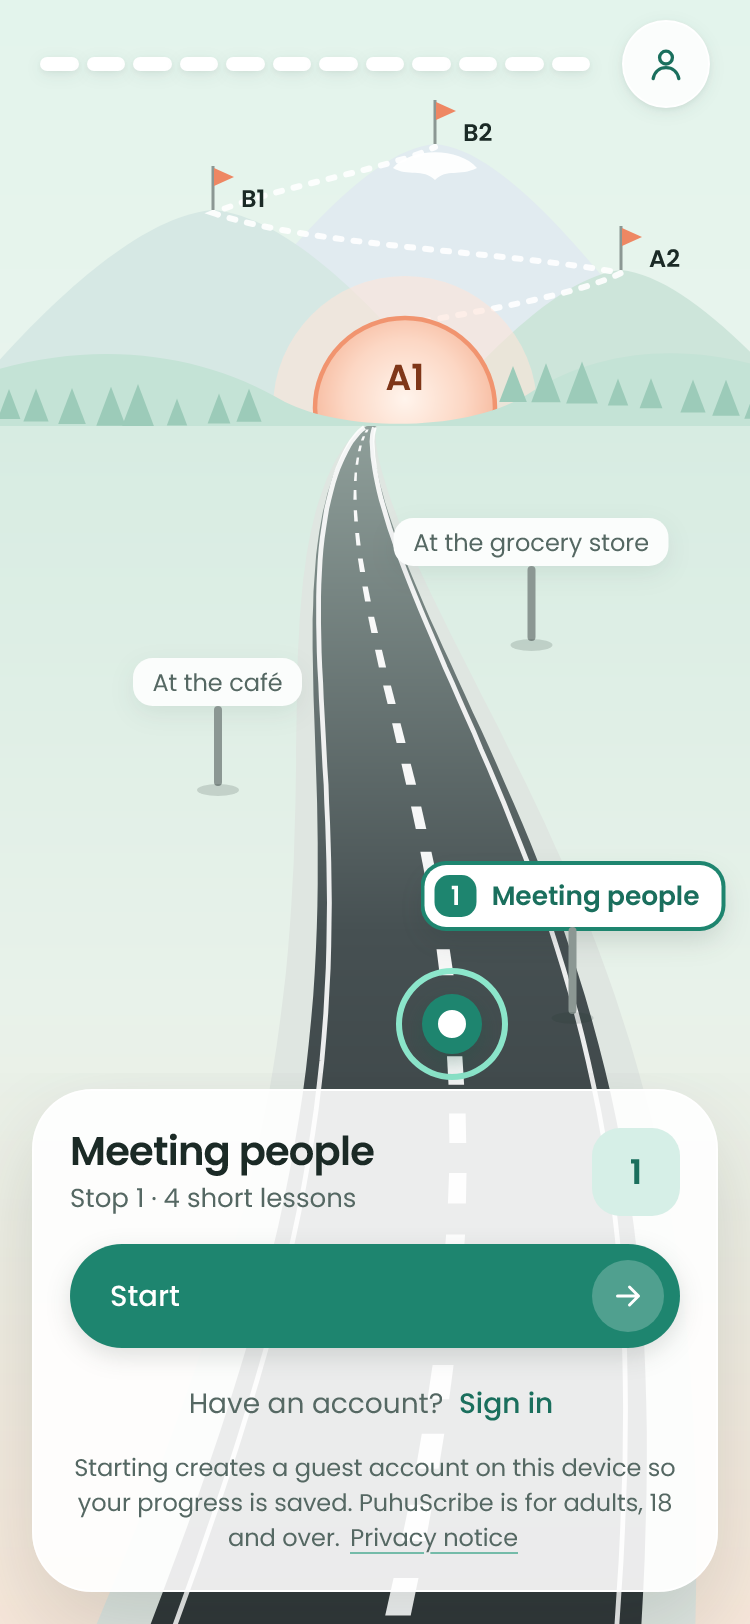
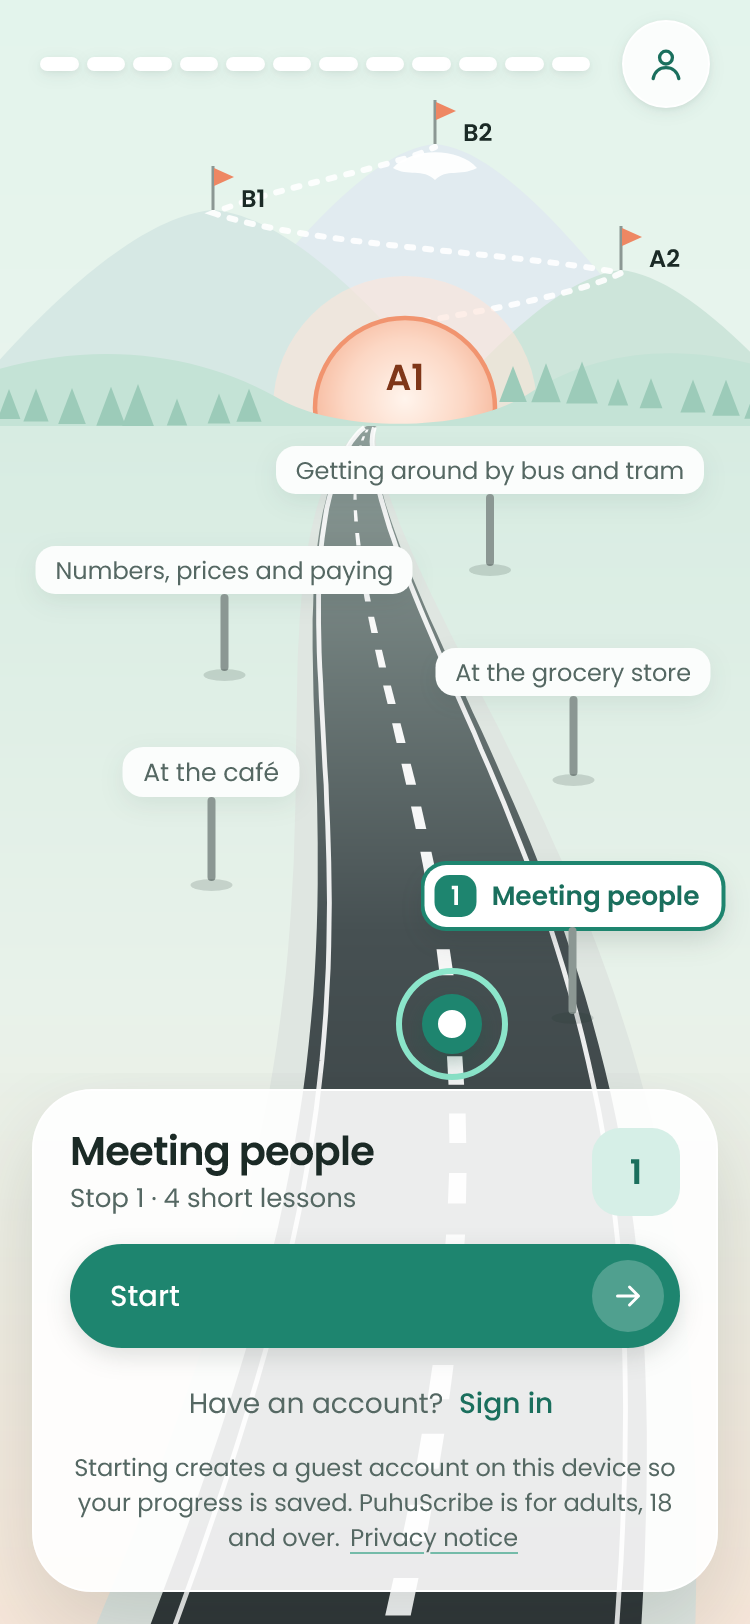
redesign round 6: the finish screen keeps its cross and play controls (jobs 8 and 18), signs move up only as far as the card needs, tests follow the drawn look

Changed region(s): [[0.0307, 0.2771, 0.9507, 0.5542]]

diff --git a/e2e/redesign-lesson.spec.ts b/e2e/redesign-lesson.spec.ts
@@ -245,21 +245,19 @@ test.describe('the lesson frame and the leave sheet', () => {
     await page.waitForURL((url) => url.pathname === '/')
   })
 
-  // Round 6 (owner, item 26): the finish screen has no top bar, as drawn: no cross and no sheet (nothing is
-  // lost there; Done goes back to the road). The full bar stays for screen readers.
-  test('[redesign 22] [redesign 33] the finish screen has no top bar and no sheet; Done goes back to the road', async ({
+  // Round 6 (owner, item 26): no bar and no "Lesson finished" on the finish screen, as drawn (the bar stays
+  // for screen readers). The cross stays as a link that leaves at once (job 18, statement 12), so no sheet.
+  test('[redesign 22] [redesign 33] the finish screen has no drawn bar and no sheet: its cross leaves at once', async ({
     page,
   }) => {
     await open(page, { step: 'say' })
     await expect(page.getByRole('heading', { level: 1, name: 'Now you can say this.' })).toBeVisible()
-    await expect(page.getByRole('link', { name: 'Leave session' })).toHaveCount(0)
+    const cross = page.getByRole('link', { name: 'Leave session' })
+    await expect(cross).toHaveAttribute('href', '/')
     await expect(page.getByRole('button', { name: 'Leave session' })).toHaveCount(0)
     const bar = page.getByRole('progressbar', { name: 'Session finished' })
     await expect(bar).toBeAttached()
-    const shown = await page.locator('header', { has: bar }).boundingBox()
-    expect(shown?.height ?? 0).toBeLessThan(3)
-    await page.getByRole('button', { name: 'Done', exact: true }).click()
-    await page.waitForURL((url) => url.pathname === '/')
+    expect(await bar.evaluate((el) => (el as unknown as { clientWidth: number }).clientWidth)).toBeLessThan(3)
   })
 })
 
@@ -1009,14 +1007,16 @@ test.describe('round 6, as drawn', () => {
     expect((await page.getByRole('status').boundingBox())?.width ?? 0).toBeLessThan(3)
   })
 
-  test('[redesign 33] the finish screen: the spoken line alone with its English, five chips then "+6", and the saved line small under Done', async ({
+  test('[redesign 33] the finish screen: the spoken line centred with its English, five chips then "+6", and the saved line small under Done', async ({
     page,
   }) => {
     await open(page, { step: 'say', newWords: 11, me: { kind: 'guest' } })
     await expect(page.getByRole('heading', { level: 1, name: 'Now you can say this.' })).toBeVisible()
+    // No speaker; the written line and both play controls stay small (job 8, statement 14).
     const sentence = page.locator('[data-line-id]')
-    await expect(sentence.getByRole('button')).toHaveCount(0)
-    await expect(sentence.locator('p')).toHaveCount(2)
+    await expect(sentence.getByRole('button')).toHaveCount(2)
+    await expect(sentence.locator('p')).toHaveCount(3)
+    expect(await styleOf(sentence, 'textAlign')).toBe('center')
     await expect(page.getByRole('heading', { level: 2, name: '11 new words' })).toBeVisible()
     const chips = page.getByRole('list').filter({ has: page.getByRole('button', { name: 'sana0' }) })
     await expect(chips.getByRole('button')).toHaveText(['sana0', 'sana1', 'sana2', 'sana3', 'sana4', '+6'])

diff --git a/src/screens/FinishScreen.tsx b/src/screens/FinishScreen.tsx
@@ -14,6 +14,8 @@ import { accountKindOf, carriesSaveNote } from './save-note.ts'
 import { SAVED_ON_THIS_DEVICE } from './save-note-copy.ts'
 import { SaveNote } from './SaveNote.tsx'
 import { NOT_SAVED } from './step-screen.ts'
+import { PlayControl } from '../components/PlayControl.tsx'
+import { LINE_AUDIO } from './LineCard.tsx'
 import styles from './Screens.module.css'
 
 // The finish screen (factory/jobs/8-first-session/spec.md, "Done when" 14 and
@@ -57,6 +59,11 @@ async function save(sessionId: string): Promise<SaveResult> {
 interface FinishScreenProps {
   session: ReadySession
   steps: readonly LoopStep[]
+}
+
+/** A line's words as plain text, with their punctuation. */
+function plain(words: readonly { text: string; before?: string; after?: string }[]): string {
+  return words.map((word) => `${word.before ?? ''}${word.text}${word.after ?? ''}`).join(' ')
 }
 
 export function FinishScreen({ session, steps }: FinishScreenProps) {
@@ -161,19 +168,22 @@ export function FinishScreen({ session, steps }: FinishScreenProps) {
           </svg>
         </div>
         <h1 className={styles.finishTitle}>{NOW_YOU_CAN}</h1>
-        {/* As drawn (round 6): only the spoken line, centred and bold, with the English under it. */}
+        {/* As drawn (round 6): the spoken line centred and bold, with the English under it and no speaker.
+            Job 8 (statement 14) keeps the written line and both play controls, so they sit small with it. */}
         {line && (
           <div className={styles.finishLine} data-line-id={line.id}>
-            <p className={styles.finishSpoken} lang="fi">
-              {line.spoken.map((word, index) => (
-                <span key={index}>
-                  {index > 0 ? ' ' : ''}
-                  {word.before}
-                  {word.text}
-                  {word.after}
-                </span>
-              ))}
-            </p>
+            <div className={styles.finishRow}>
+              <p className={styles.finishSpoken} lang="fi">
+                {plain(line.spoken)}
+              </p>
+              <PlayControl src={line.spokenAudio} what={LINE_AUDIO.spoken} size="small" />
+            </div>
+            <div className={styles.finishRow}>
+              <p className={styles.finishWritten} lang="fi">
+                {plain(line.written)}
+              </p>
+              <PlayControl src={line.writtenAudio} what={LINE_AUDIO.written} size="small" tone="written" />
+            </div>
             <p className={styles.finishGloss}>{line.gloss}</p>
           </div>
         )}

diff --git a/src/components/SessionFrame.tsx b/src/components/SessionFrame.tsx
@@ -74,10 +74,15 @@ export function SessionFrame({
       data-dim={dim ? 'on' : undefined}
     >
       <Landscape />
-      {/* The finish screen has no top bar, as drawn (round 6): no cross (Done goes back to the road) and the
-          full bar stays for screen readers only. */}
-      <header className={finished ? styles.topBarHidden : styles.topBar}>
-        {finished ? null : (
+      {/* The finish screen has no bar and no "Lesson finished", as drawn (round 6); both stay for screen
+          readers. Its cross stays, a link that leaves at once, because job 18 (statement 12) keeps "Leave
+          session" working on this screen. */}
+      <header className={styles.topBar}>
+        {finished ? (
+          <a className={styles.leave} href={leaveHref} aria-label="Leave session">
+            <Cross />
+          </a>
+        ) : (
           <button
             ref={cross}
             type="button"
@@ -92,7 +97,7 @@ export function SessionFrame({
           </button>
         )}
         <div
-          className={styles.bar}
+          className={finished ? styles.topBarHidden : styles.bar}
           role="progressbar"
           aria-label={name}
           aria-valuemin={0}
@@ -101,7 +106,7 @@ export function SessionFrame({
         >
           <span className={styles.fill} style={{ width: `${String(Math.round(share * 1000) / 10)}%` }} />
         </div>
-        <StepName className={hideStepName ? styles.stepHidden : styles.step}>
+        <StepName className={hideStepName || finished ? styles.stepHidden : styles.step}>
           {finished ? 'Lesson finished' : <StepLabel step={step} />}
         </StepName>
       </header>

diff --git a/src/components/landscape-geometry.ts b/src/components/landscape-geometry.ts
@@ -178,12 +178,14 @@ export function signSpots(
   const step = Math.max(SIGN_STEP, minGap)
   for (let i = drawn.length - 2; i >= 0; i--)
     drawn[i] = Math.max(drawn[i] ?? top, (drawn[i + 1] ?? top) + step)
-  const nearest = drawn[0] ?? bottom
-  const squeeze = nearest > bottom ? (bottom - top) / Math.max(1, nearest - top) : 1
-  const ys = drawn.map((y) => top + (y - top) * squeeze)
-  // Squeezed too close for tall boards (a short phone with large text): the gap wins over the sun, and the
-  // road screen then shows fewer signs, because no board may cover the sun or another board.
-  for (let i = 1; i < ys.length; i++) ys[i] = Math.min(ys[i] ?? top, (ys[i - 1] ?? top) - step)
+  // From the nearest up: no lower than the card allows, and a step above the one in front, so the
+  // places move up only as far as the card needs. Squeezed too close for tall boards (a short phone,
+  // large text), a sign may rise toward the sun; the road screen then shows fewer signs, because no
+  // board may cover the sun or another board.
+  const ys: number[] = []
+  drawn.forEach((y, i) => {
+    ys.push(Math.min(y, i === 0 ? bottom : (ys[i - 1] ?? bottom) - step))
+  })
   return ys.map((y, i) => {
     const t = tAtY(y)
     const side = (i % 2 === 0 ? firstSide : -firstSide) as -1 | 1

diff --git a/src/screens/RoadScreen.tsx b/src/screens/RoadScreen.tsx
@@ -131,7 +131,8 @@ export function RoadScreen() {
   }, [])
 
   useLayoutEffect(() => {
-    if (home.kind !== 'ready') return undefined
+    if (home.kind !== 'ready' || playing) return undefined
+    // Measured once the opening is over, when the card and the signs stand where they end up.
     measure()
     window.addEventListener('resize', measure)
     const observer = typeof ResizeObserver === 'undefined' ? null : new ResizeObserver(measure)
@@ -142,7 +143,7 @@ export function RoadScreen() {
       window.removeEventListener('resize', measure)
       observer?.disconnect()
     }
-  }, [home, measure])
+  }, [home, playing, measure])
 
   // Fewer signs while any two boards touch each other or the top bar (round 3, design review). The
   // sign of the "you" marker and the next one are always kept. It waits for the opening animation,

diff --git a/e2e/account-pages.spec.ts b/e2e/account-pages.spec.ts
@@ -111,6 +111,8 @@ test('[accounts 16] the privacy notice loads without an account, makes no /api c
   // account it is a 401 and the page says "in the EU" without the country.
   const calls = requests.filter((r) => new URL(r.url()).pathname.startsWith('/api/'))
   expect(calls.map((r) => `${r.method()} ${new URL(r.url()).pathname}`)).toEqual(['GET /api/voice'])
+  // Round 6 of job 19-redesign: the voice details sit behind "More about your voice", as drawn.
+  await page.getByRole('button', { name: 'More about your voice' }).click()
   await expect(page.getByText(/service in the EU\./).first()).toBeVisible()
   expect(await page.evaluate<string>('document.cookie')).toBe('')
 })

diff --git a/e2e/analytics-feedback.spec.ts b/e2e/analytics-feedback.spec.ts
@@ -117,7 +117,8 @@ test.describe('feedback', { tag: '@seed' }, () => {
       await route.continue()
     })
     await page.getByLabel('What should we know?').fill('Sent once on a slow connection.')
-    const send = page.locator('form button[type="submit"]')
+    // Round 6 of job 19-redesign: Send sits at the bottom of the screen and submits the form by its id.
+    const send = page.getByRole('button', { name: 'Send', exact: true })
     await send.click()
     await expect(send).toHaveAttribute('aria-busy', 'true')
     // The busy button refuses Playwright's normal click, so tap it as a finger would.

diff --git a/e2e/speaking-feedback.spec.ts b/e2e/speaking-feedback.spec.ts
@@ -445,7 +445,8 @@ test.describe('speaking feedback', { tag: '@seed' }, () => {
     )
 
     await page.getByRole('switch', { name: 'Keep my recordings' }).click()
-    await expect(page.getByText('You have no kept recordings.', { exact: true })).toBeVisible()
+    // Round 6 of job 19-redesign: "My recordings" shows only while something is kept.
+    await expect(page.getByRole('heading', { name: 'My recordings' })).toHaveCount(0)
     expect(one(`select count(*) from public.kept_recordings where user_id = :'uid'`, { uid: userId })).toBe(
       '0',
     )

diff --git a/e2e/redesign-pages.spec.ts b/e2e/redesign-pages.spec.ts
@@ -516,6 +516,7 @@ test.describe('delete, feedback and the privacy notice', () => {
     page,
   }) => {
     await page.goto('/privacy')
+    await expect(page.getByRole('heading', { level: 2, name: 'Who runs PuhuScribe' })).toBeVisible()
     const look = await page.evaluate<{ colours: string[]; titleInHeader: boolean }>(`({
       colours: [...document.querySelectorAll('[class*="firstLayer"] section h2')].map((h) => getComputedStyle(h).color),
       titleInHeader: Boolean(document.querySelector('header h1')),

diff --git a/src/screens/Screens.module.css b/src/screens/Screens.module.css
@@ -298,6 +298,20 @@
   overflow-wrap: anywhere;
 }
 
+.finishRow {
+  display: flex;
+  align-items: center;
+  justify-content: center;
+  gap: var(--space-2);
+}
+
+.finishWritten {
+  margin: 0;
+  font-size: var(--text-written);
+  color: var(--color-written);
+  overflow-wrap: anywhere;
+}
+
 .finishGloss {
   margin: 0;
   font-size: var(--text-small);
